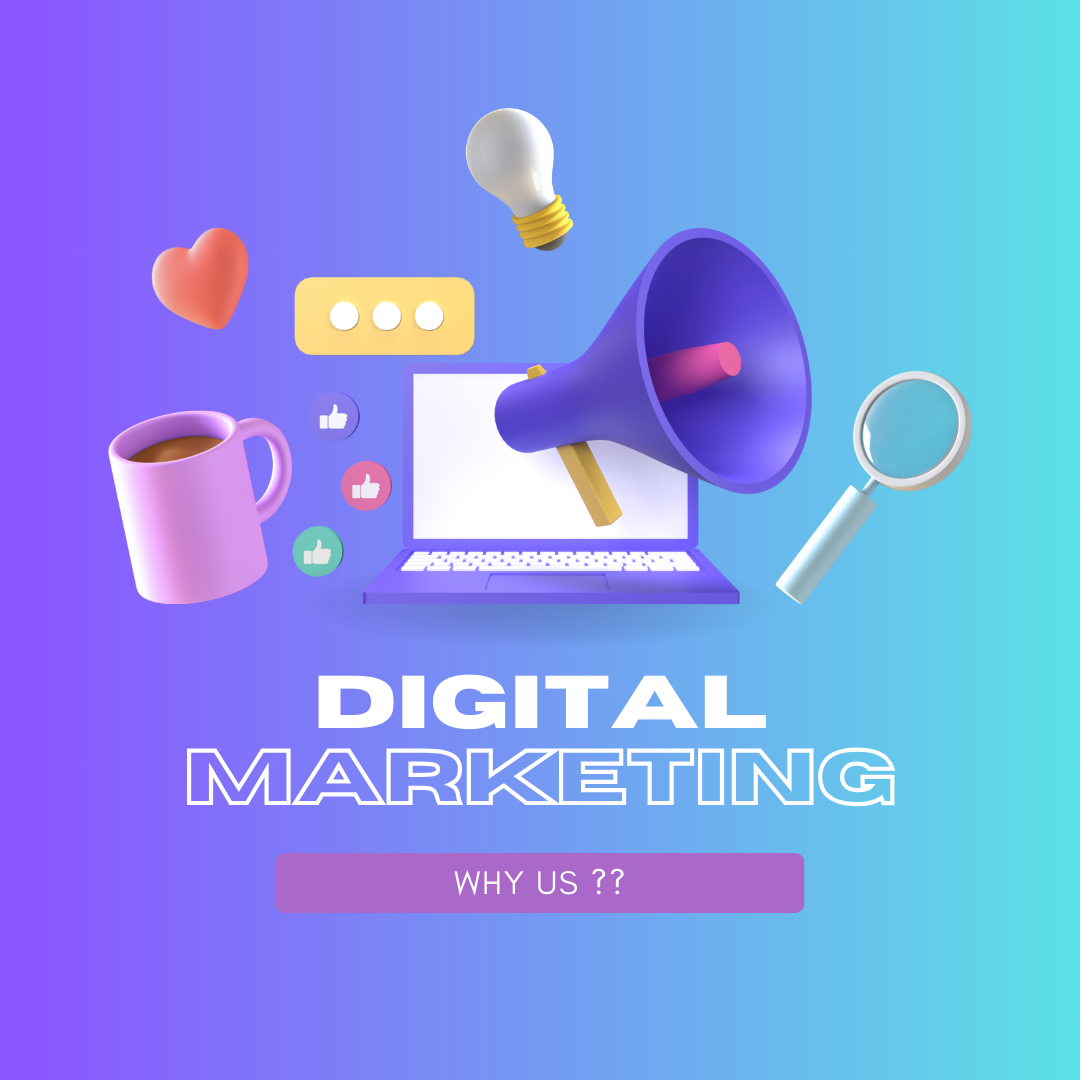
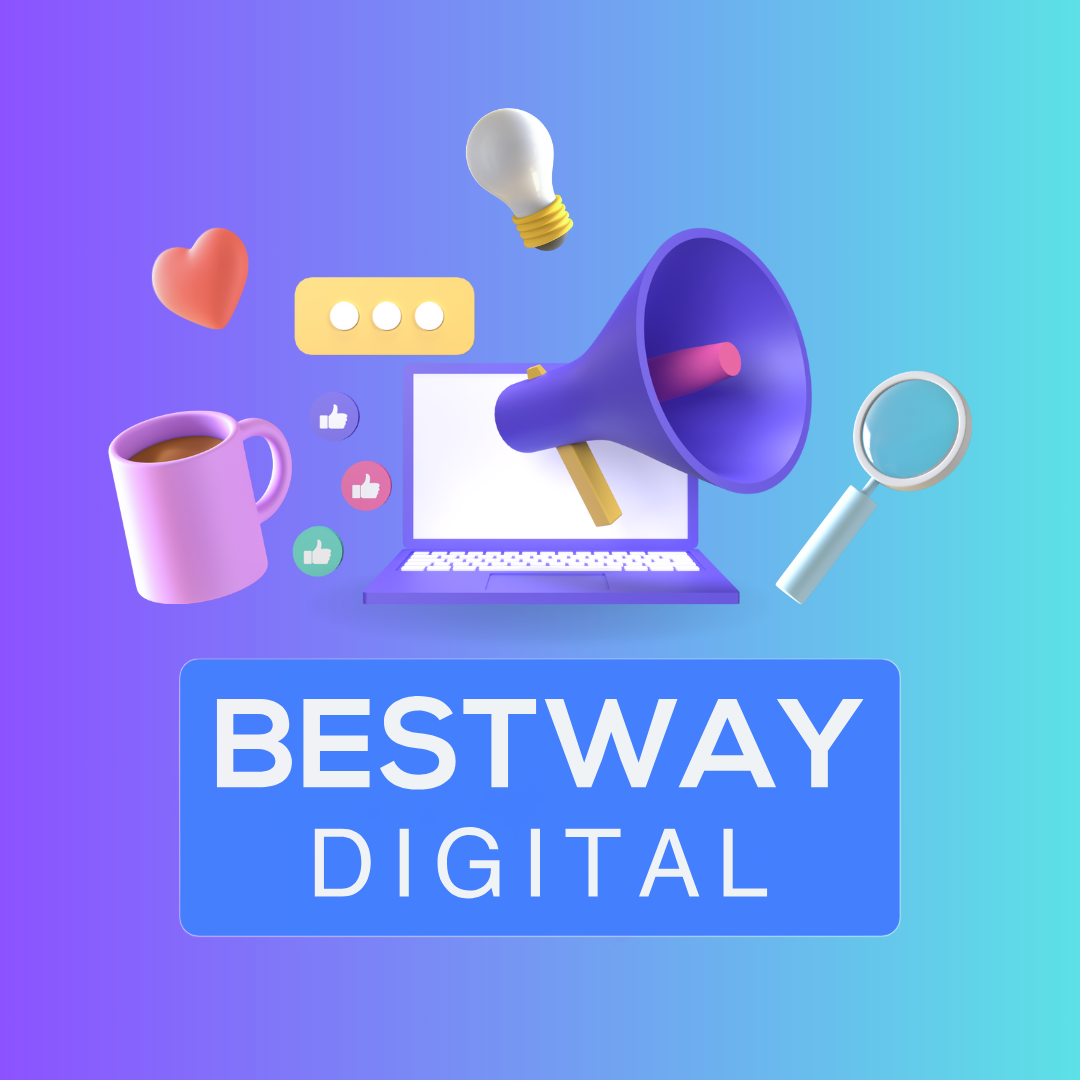
changed images and the position of some text

Changed region(s): [[0.1528, 0.6111, 0.8556, 0.8861]]

diff --git a/index.html b/index.html
@@ -447,7 +447,7 @@
                 <!-- Image Section -->
                 <div class="col-lg-6 wow fadeInUp" data-wow-delay="0.5s">
                     <div class="img-border">
-                        <img class="img-fluid" src="img/fet.png" alt="Why Choose Us Image">
+                        <img class="img-fluid" src="img/fet2.png" alt="Why Choose Us Image">
                     </div>
                 </div>
             </div>
